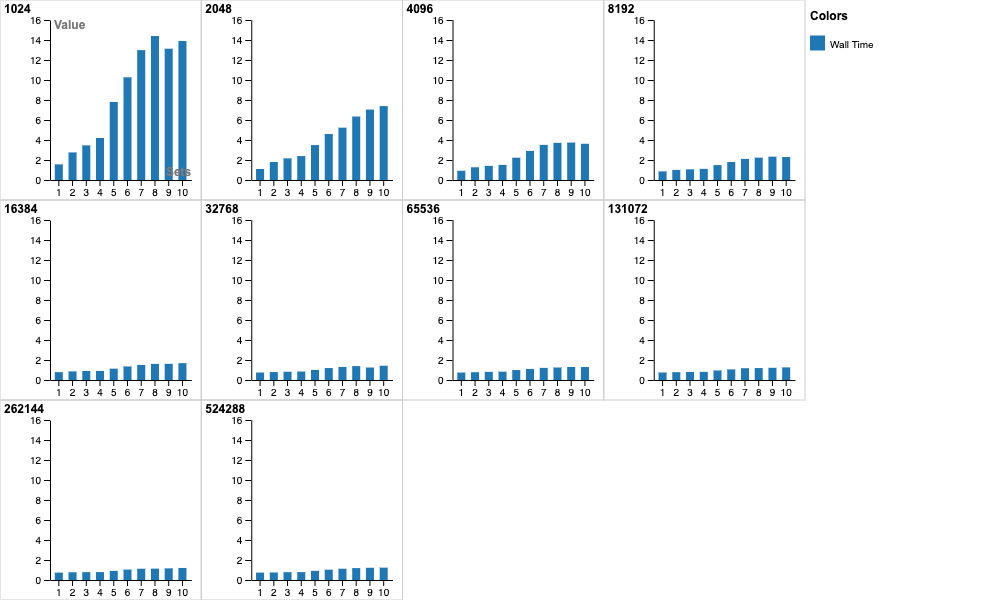
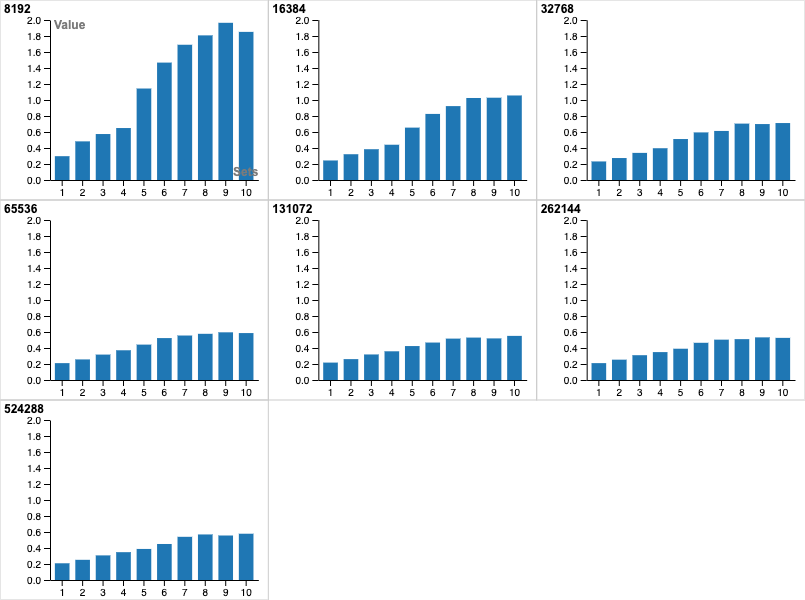
Update Part6 for better comparison

diff --git a/Part6/part_6.c b/Part6/part_6.c
@@ -127,7 +127,7 @@ int main(int argc, char *argv[]) {
     BLOCK_SIZE = 524288;
     NUM_OF_THREADS = 3;
     init_csv_file();
-    for(long BLOCK_SIZE=1024;BLOCK_SIZE < MAX_BLOCK_SIZE;BLOCK_SIZE*=2){
+    for(long BLOCK_SIZE=8192;BLOCK_SIZE < MAX_BLOCK_SIZE;BLOCK_SIZE*=2){
         for(int NUM_OF_THREADS = 1; NUM_OF_THREADS <= 10; NUM_OF_THREADS+=1){
             //Calculate read and XOR time using threads
             start = clock();
